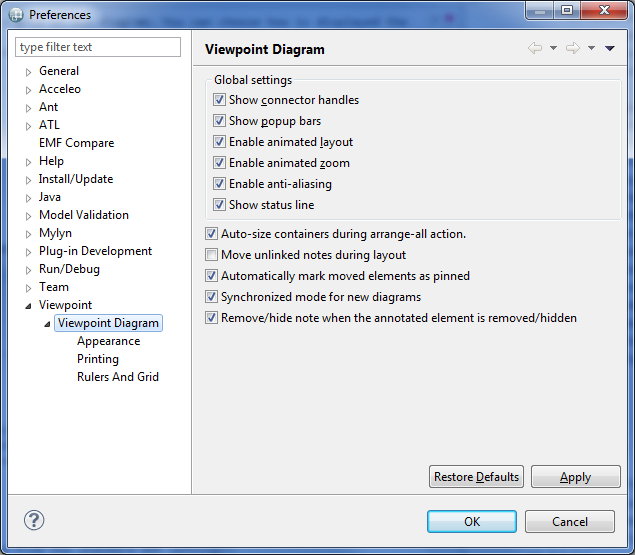
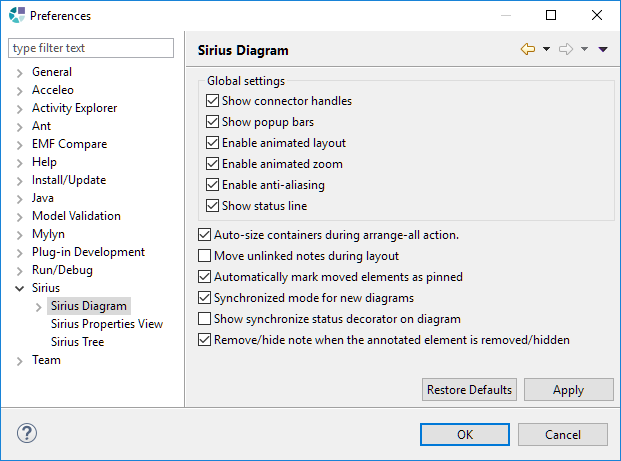
[518702] Update documentation
Bug: 518702

Changed region(s): [[0.0, 0.0, 1.0, 1.0]]

diff --git a/plugins/org.eclipse.sirius.doc/doc/Release_Notes.html b/plugins/org.eclipse.sirius.doc/doc/Release_Notes.html
@@ -119,7 +119,9 @@
 			<li><span class="label label-success">Added</span> The end user can now 
 				<a href="user/diagrams/Diagrams.html#RemoveBendpoints">remove all bend-points</a> on rectilinear edges. It was only possible on oblique edges before. This action is available on edge context menu &#8220;Remove Bend-points&#8221; or by using the shortcut &#8220;Ctrl&#8221; + &#8220;Shift&#8221; + &#8220;-&#8221;. If number of bend-points can not be reduced, remove action will be inefficient.
 			</li>
-			<li><span class="label label-success">Added</span> The status Synchronized/Unsynchronized of the diagram is now displayed in the status bar when the diagram editor has the focus.</li>
+			<li><span class="label label-success">Added</span> The status Synchronized/Unsynchronized of the diagram is now displayed in the status bar when the diagram editor has the focus or can be directly displayed 
+				<a href="user/diagrams/Diagrams.html#synchronized_diagram">in the diagram</a> with a decorator.
+			</li>
 			<li><span class="label label-success">Added</span> The user now have a drop down menu in the tabbar with all available straighten to edge actions. </li>
 			<li><span class="label label-success">Added</span> Straighten to actions on edge are now available even if the selection contains incompatible elements (edge labels for example). Their execution affects only compatible edges.</li>
 			<li><span class="label label-success">Added</span> Four new straighten actions are available (with top pinned, with bottom pinned, with left pinned, with right pinned) and allow to straighten edges from the opposed straightening axis point of view.</li>
@@ -174,16 +176,6 @@
 			<li><span class="label label-info">Modified</span> The filtering expression variables available in the properties view definition in the &#8216;Extends&#8217; tab were renamed to match the following pattern: featureName+&#8216;Description&#8217;.</li>
 		</ul>
 		<h3 id="DeveloperVisibleChanges">Developer-Visible Changes</h3>
-		<h4 id="Changesinorg.eclipse.sirius.business.api">Changes in 
-			<code>org.eclipse.sirius.business.api</code>
-		</h4>
-		<ul>
-			<li><span class="label label-success">Added</span> (experimental) The new API 
-				<code>org.eclipse.sirius.business.api.query.SiriusReferenceFinder</code> and 
-				<code>org.eclipse.sirius.business.api.query.EObjectQuery.getSiriusReferenceFinder()</code> method to get it have been added. This API allows getting the DRepresentations or DRepresentationElements that reference the provided semantic object. It also allows getting the DRepresentationDescriptor which associated DRepresentation is or contains elements that reference the provided semantic object. This API will be useful for 
-				<a href="#replazyloading">representation lazy loading</a> as it may, in the future, not need to load all not yet loaded representations. For now, the use of this API will load all not loaded representations.
-			</li>
-		</ul>
 		<h4 id="Migrations">Migrations</h4>
 		<ul>
 			<li><span class="label label-success">Added</span> A migration has been added to fix diagram with edge labels corrupted (see 
@@ -243,6 +235,11 @@
 			<li><span class="label label-success">Added</span> 
 				<code>org.eclipse.sirius.tools.api.command.ui.UICallBack.shouldDeleteRepresentation(Set&lt;DRepresentationDescriptor&gt;)</code> has been added to be called when the user interface should prompt for a choice about the representation deletion.
 			</li>
+			<li><span class="label label-success">Added</span> (experimental) The new API 
+				<code>org.eclipse.sirius.business.api.query.SiriusReferenceFinder</code> and 
+				<code>org.eclipse.sirius.business.api.query.EObjectQuery.getSiriusReferenceFinder()</code> method to get it have been added. This API allows getting the DRepresentations or DRepresentationElements that reference the provided semantic object. It also allows getting the DRepresentationDescriptor which associated DRepresentation is or contains elements that reference the provided semantic object. This API will be useful for 
+				<a href="#replazyloading">representation lazy loading</a> as it may, in the future, not need to load all not yet loaded representations. For now, the use of this API will load all not loaded representations.
+			</li>
 			<li><span class="label label-danger">Removed</span> 
 				<code>org.eclipse.sirius.business.api.dialect.DialectServices.getRepresentationDescriptors(EObject, Session)</code> has been moved to 
 				<code>org.eclipse.sirius.business.api.dialect.DialectManager</code>.
@@ -292,6 +289,15 @@
 			<li><span class="label label-info">Modified</span> 
 				<code>org.eclipse.sirius.common.tools.api.util.WorkspaceUtil.getFilesFromWorkspace(Collection&lt;IProject&gt;, String)</code> signature has been modified in 
 				<code>getFilesFromWorkspace(Collection&lt;IContainer&gt;, String)</code> to be more generic.
+			</li>
+		</ul>
+		<h4 id="Changesinorg.eclipse.sirius.diagram.ui">Changes in 
+			<code>org.eclipse.sirius.diagram.ui</code>
+		</h4>
+		<ul>
+			<li><span class="label label-success">Added</span> The new preference 
+				<code>org.eclipse.sirius.diagram.ui.tools.api.preferences.SiriusDiagramUiPreferencesKeys.PREF_SHOW_SYNCHRONIZE_STATUS_DECORATOR</code> has been added to say if the 
+				<a href="user/diagrams/Diagrams.html#synchronized_diagram">synchronize status</a> decorator must be shown or not.
 			</li>
 		</ul>
 		<h4 id="Changesinorg.eclipse.sirius.ext.emf.edit">Changes in 
@@ -714,7 +720,7 @@
 				<code>NodeStyleIdentifier</code>) have been removed.
 			</li>
 		</ul>
-		<h4 id="Changesinorg.eclipse.sirius.diagram.ui">Changes in 
+		<h4 id="Changesinorg.eclipse.sirius.diagram.ui2">Changes in 
 			<code>org.eclipse.sirius.diagram.ui</code>
 		</h4>
 		<ul>
@@ -1303,7 +1309,7 @@ SWTBotUtils.waitAllUiEvents();
 				<code>allowsCopyPasteLayout(DSemanticDecorator)</code> will be removed in the new major version.
 			</li>
 		</ul>
-		<h4 id="Changesinorg.eclipse.sirius.diagram.ui2">Changes in 
+		<h4 id="Changesinorg.eclipse.sirius.diagram.ui3">Changes in 
 			<code>org.eclipse.sirius.diagram.ui</code>
 		</h4>
 		<ul>
@@ -1787,7 +1793,7 @@ SWTBotUtils.waitAllUiEvents();
 				<code>org.eclipse.sirius.ui.business.api.editor.SpecificSessionManager</code> has been removed. 
 			</li>
 		</ul>
-		<h4 id="Changesinorg.eclipse.sirius.diagram.ui3">Changes in 
+		<h4 id="Changesinorg.eclipse.sirius.diagram.ui4">Changes in 
 			<code>org.eclipse.sirius.diagram.ui</code>
 		</h4>
 		<ul>
@@ -2382,7 +2388,7 @@ SWTBotUtils.waitAllUiEvents();
 				<code>IEditorPart</code> through the navigation history view.
 			</li>
 		</ul>
-		<h4 id="Changesinorg.eclipse.sirius.diagram.ui4">Changes in 
+		<h4 id="Changesinorg.eclipse.sirius.diagram.ui5">Changes in 
 			<code>org.eclipse.sirius.diagram.ui</code>
 		</h4>
 		<ul>

diff --git a/plugins/org.eclipse.sirius.doc/doc/user/diagrams/Diagrams.html b/plugins/org.eclipse.sirius.doc/doc/user/diagrams/Diagrams.html
@@ -906,9 +906,16 @@
 			<i>Synchronized</i>. 
 			<br/>When the editor is activated, the status bar informs if the diagram is 
 			<i>Synchronized</i> or 
-			<i>Unsynchronized</i>.
+			<i>Unsynchronized</i> (according to preference 
+			<a href="#show_status_line">
+				<em>Sirius/Sirius Diagram/Show status line</em>
+			</a> ).
 			<br/>
 			<img border="0" src="images/synchronized_diagram_statusbar.png"/>
+			<br/>It is also possible to see this status with a decorator at the bottom-right corner of the diagram (according to preference 
+			<a href="#show_sync_decorator">_Sirius/Sirius Diagram/Show synchronize status decorator on diagram</a> )
+			<br/>
+			<img border="0" src="images/decoratorsSyncStatus.png"/>
 		</p>
 		<p>With 
 			<i>Synchronized</i> mode, the displayed diagram represents what is provided by the modeler. However, with 
@@ -1491,7 +1498,9 @@
 				<em>Enable anti-aliasing:</em> If checked, the graphics on the diagram will use anti-aliasing. This preference does not take effect on all platforms.
 			</li>
 			<li>
-				<em>Show status line:</em> This has no effect for Sirius diagram (it is inherited from the standard GMF settings).
+				<span id="show_status_line">
+					<em>Show status line:</em>
+				</span> This allows to display the GMF status line. It is used in Sirius to display the synchronize status of the diagram..
 			</li>
 		</ul>
 		<ul>
@@ -1509,9 +1518,17 @@
 				<a href="#pinning">pinned</a> and consider it should not be moved by the automatic layout. You can still explicitly 
 				<a href="#pinning">unpin</a> these elements.
 			</li>
-			<li><span id="synchronized_preference">
-				<em>Synchronized mode for new diagrams:</em></span> If checked, all newly created diagrams will initially be in 
+			<li>
+				<span id="synchronized_preference">
+					<em>Synchronized mode for new diagrams:</em>
+				</span> If checked, all newly created diagrams will initially be in 
 				<a href="#synchronized_diagram">synchronized</a> mode. You can still change the mode manually after the diagram is created.
+			</li>
+			<li>
+				<span id="show_sync_decorator">
+					<em>Show synchronize status decorator on diagram:</em>
+				</span> If checked, a decorator in the bottom-right corner of the diagram is displayed to show the 
+				<a href="#synchronized_diagram">synchronize</a> status of the diagram. A value change of this preference will be applied on the next status changed for already opened diagrams.
 			</li>
 			<li>
 				<em>Remove/hide note when the annotated element is removed/hidden:</em> If checked, then notes attached to a diagram element will be deleted if the element is deleted, or hidden if the element is hidden.
